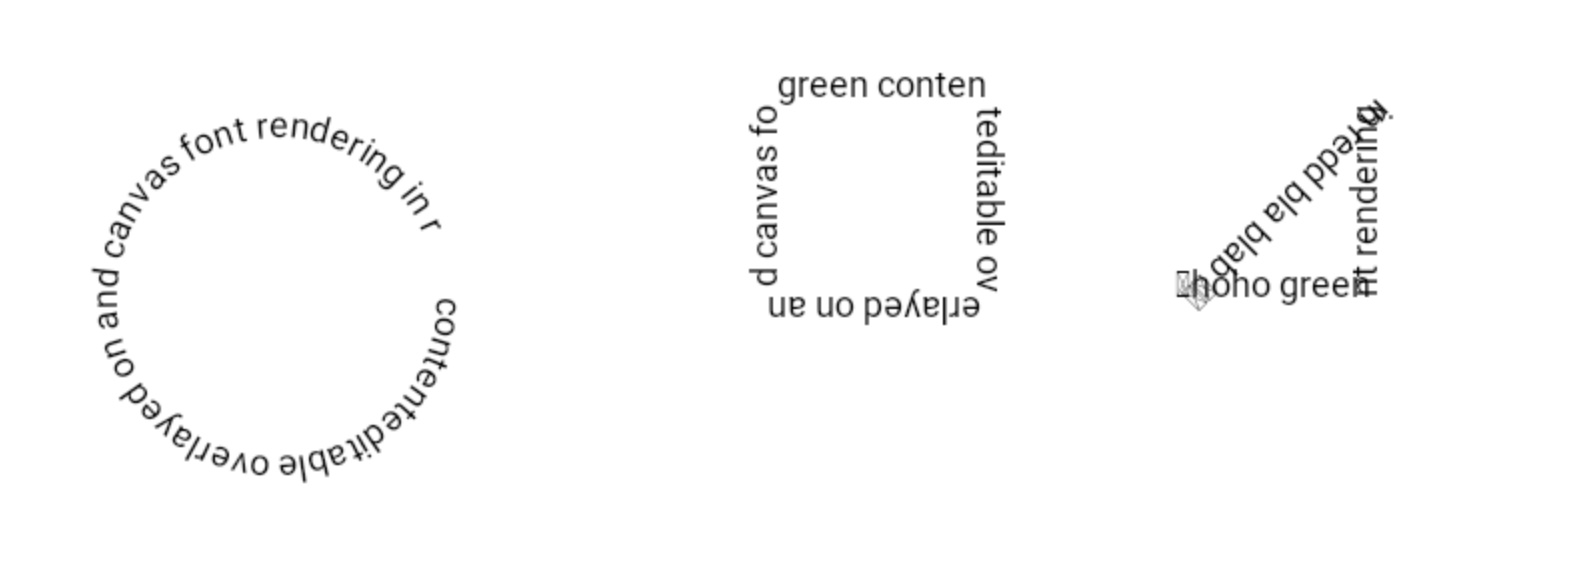
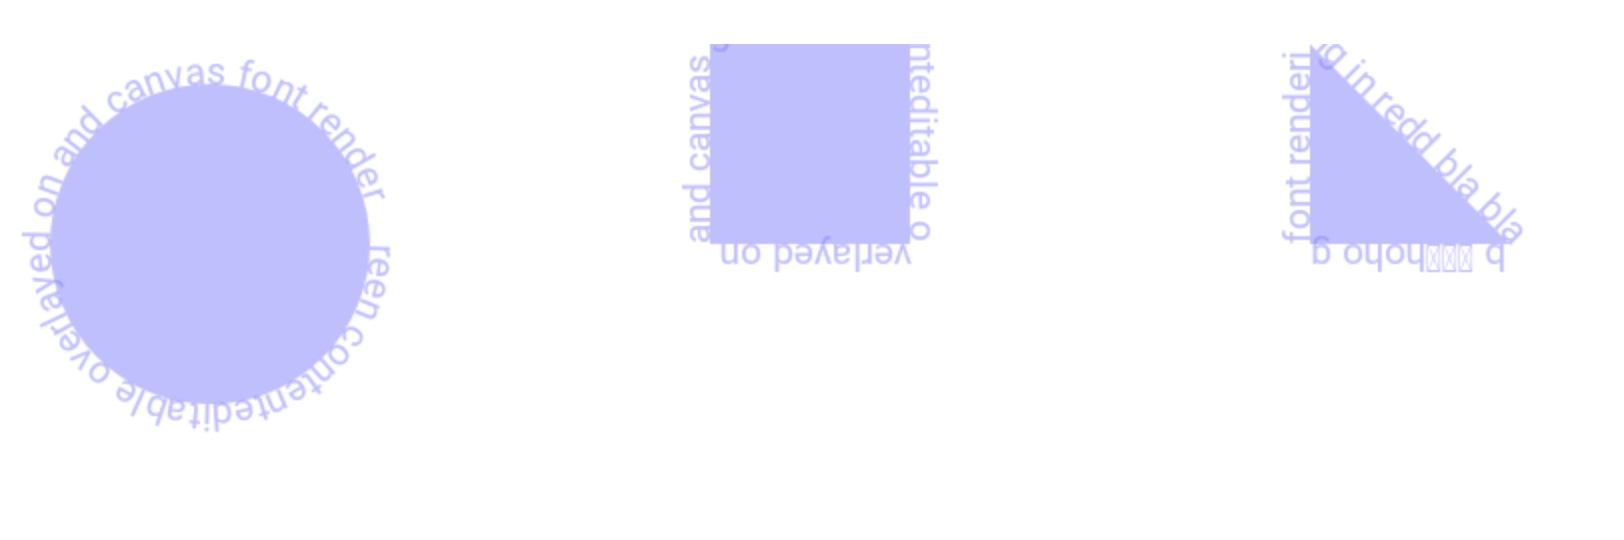
fix: drawText offset

diff --git a/src/demos/font-path.ts b/src/demos/font-path.ts
@@ -38,8 +38,8 @@ const runCanvaskitExample = async () => {
 
     //#endregion
 
-
-    const font = new CanvasKit.Font(typeface, 18);
+    // 最小字体 9 号 小于9 提示 zero-length path in getPosTa
+    const font = new CanvasKit.Font(typeface, 19);
     const fontPaint = new CanvasKit.Paint();
     fontPaint.setStyle(CanvasKit.PaintStyle.Fill);
     fontPaint.setAntiAlias(true);
@@ -49,32 +49,35 @@ const runCanvaskitExample = async () => {
     const paint = new CanvasKit.Paint();
     paint.setStyle(CanvasKit.PaintStyle.Fill);
     paint.setAntiAlias(true);
-    paint.setColor(CanvasKit.Color(1, 1, 1, 255));
-    
+    // paint.setColor(CanvasKit.Color(1, 1, 1, 255));
+    paint.setColor(CanvasKit.Color4f(0.5, 0.5, 1.0, 0.5)); // 浅蓝色，半透明
 
-    const circlePath = new CanvasKit.Path(); 
-    circlePath.addCircle(100, 100, 80);
+
+
+    const path = new CanvasKit.Path();
+    path.addCircle(100, 100, 80);
 
     const rectPath = new CanvasKit.Path();
-    rectPath.addRect(CanvasKit.LTRBRect(350, 0, 450, 100));   
-    circlePath.op(rectPath, PathKit.PathOp.UNION);
+    rectPath.addRect(CanvasKit.LTRBRect(350, 0, 450, 100));
+    path.op(rectPath, PathKit.PathOp.UNION);
 
     const trianglePath = new CanvasKit.Path();
     trianglePath.moveTo(650, 0);
     trianglePath.lineTo(650, 100);
-    trianglePath.lineTo(550, 100);
+    // 注意时针顺序  如果是顺时针, 文字将在 shape 内部
+    trianglePath.lineTo(550, 100); 
     trianglePath.close();
-    circlePath.op(trianglePath, PathKit.PathOp.UNION);
+    path.op(trianglePath, PathKit.PathOp.UNION);
     // Not working
     // const path = PathKit.MakeFromOp(circlePath, trianglePath, PathKit.PathOp.UNION);
     // console.log('path', path.toSVGString())
-    
+    skCanvas.drawPath(path, paint);
 
     // Create a TextBlob
     const elem = document.querySelector('#editor') as HTMLElement;
     const text = elem?.innerText;
-    const textBlob = CanvasKit.TextBlob.MakeOnPath(text, circlePath, font, 0);
-    skCanvas.drawTextBlob(textBlob, 20, 20, paint);
+    const textBlob = CanvasKit.TextBlob.MakeOnPath(text, path, font, 0);
+    skCanvas.drawTextBlob(textBlob, 0, 0, paint);
 
     surface.flush();
 };
